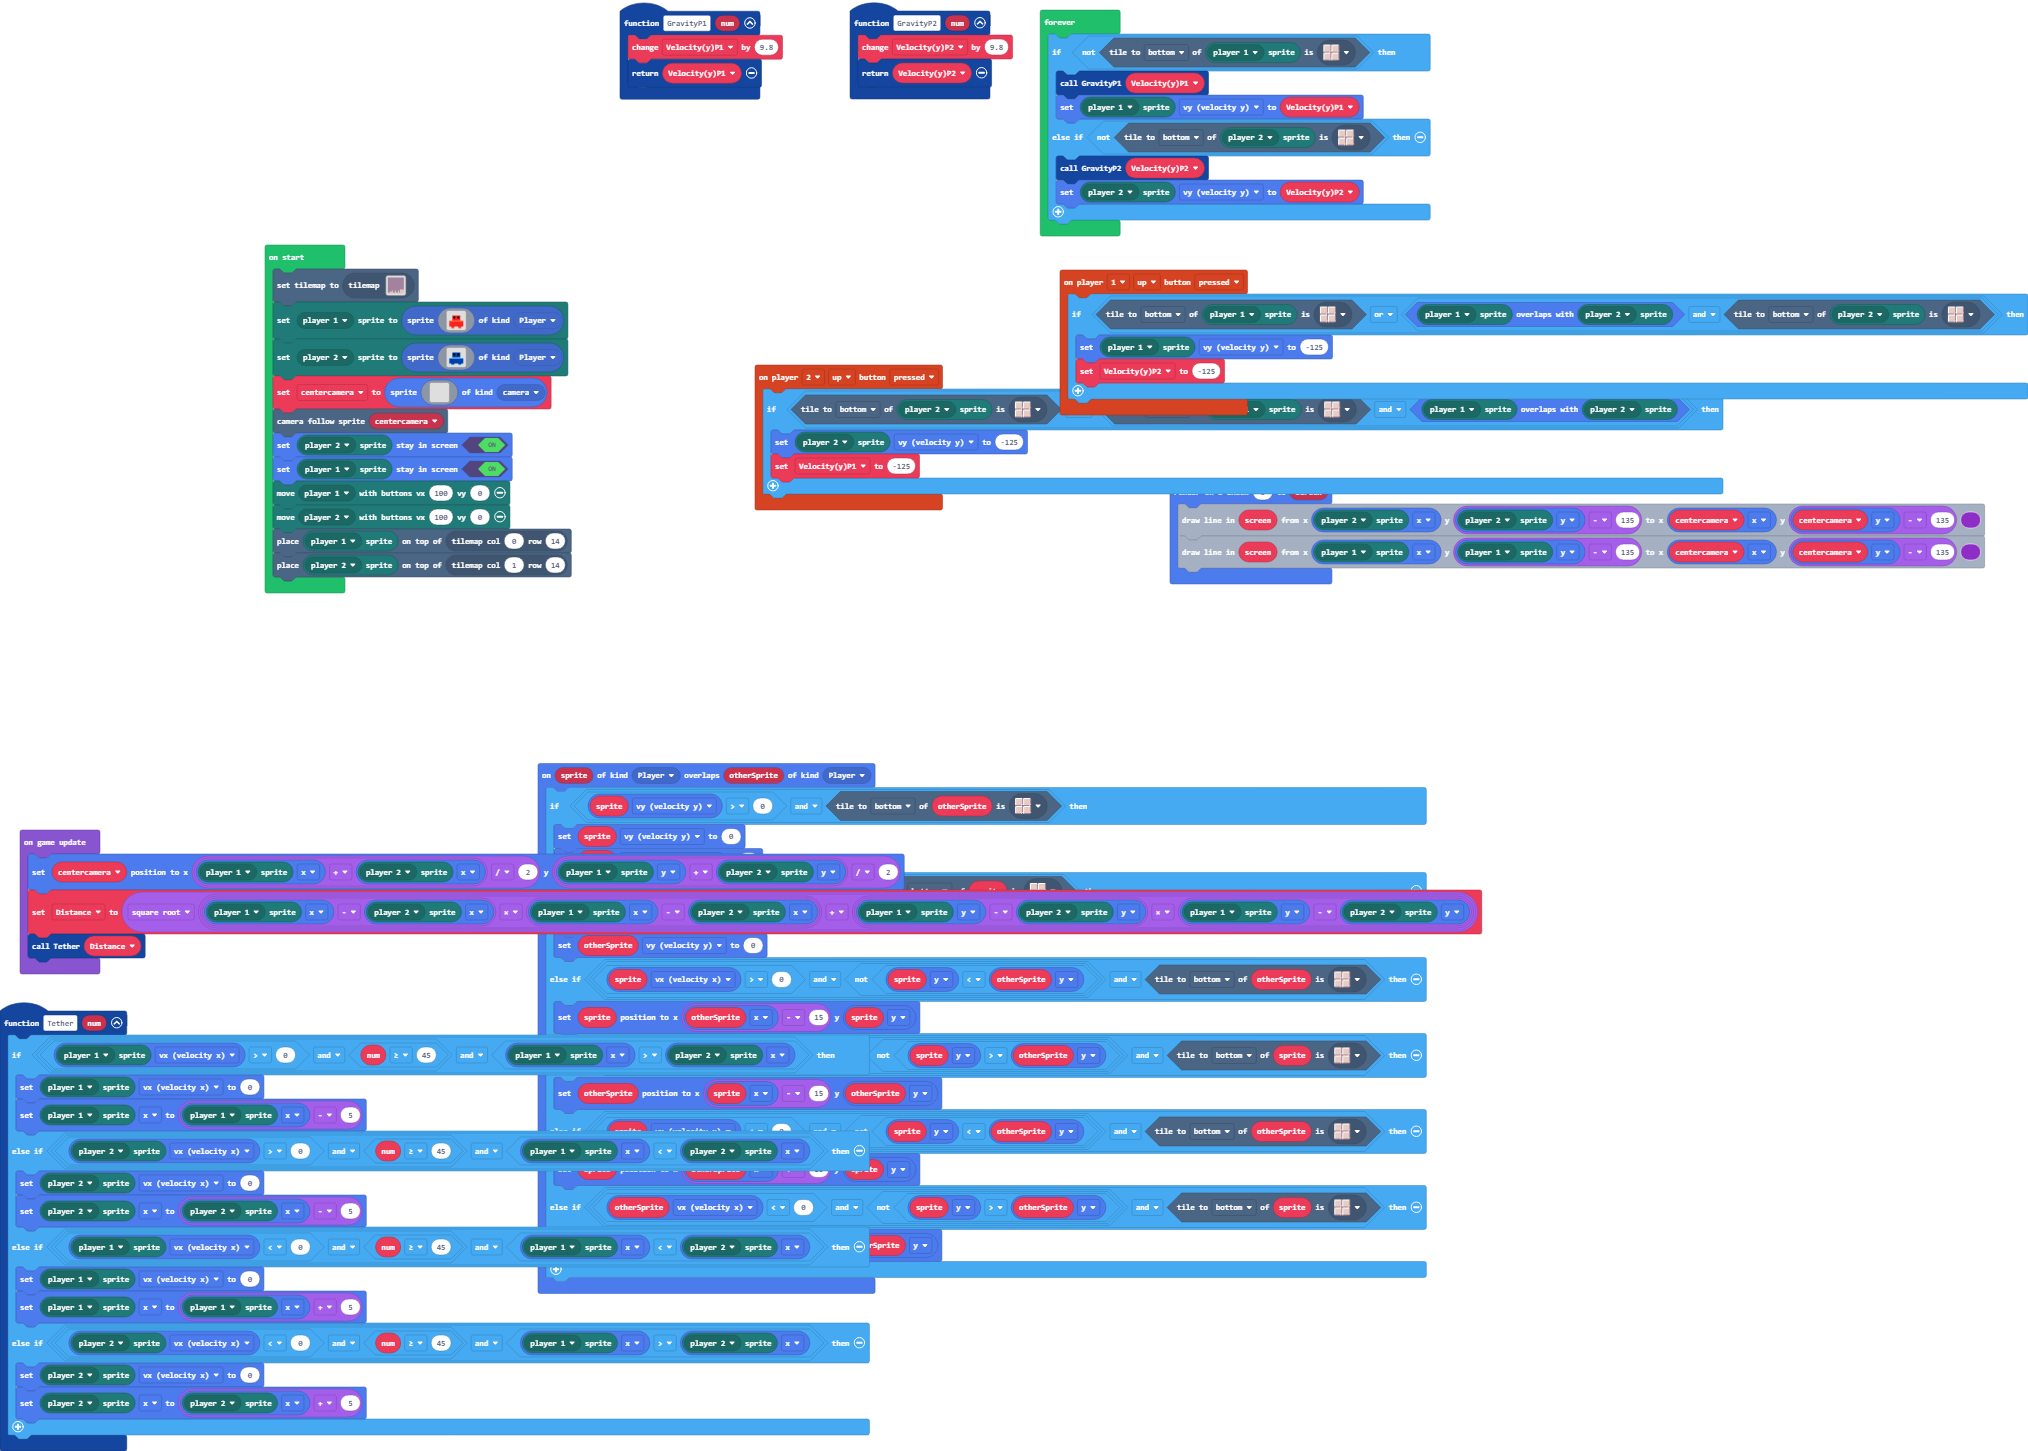
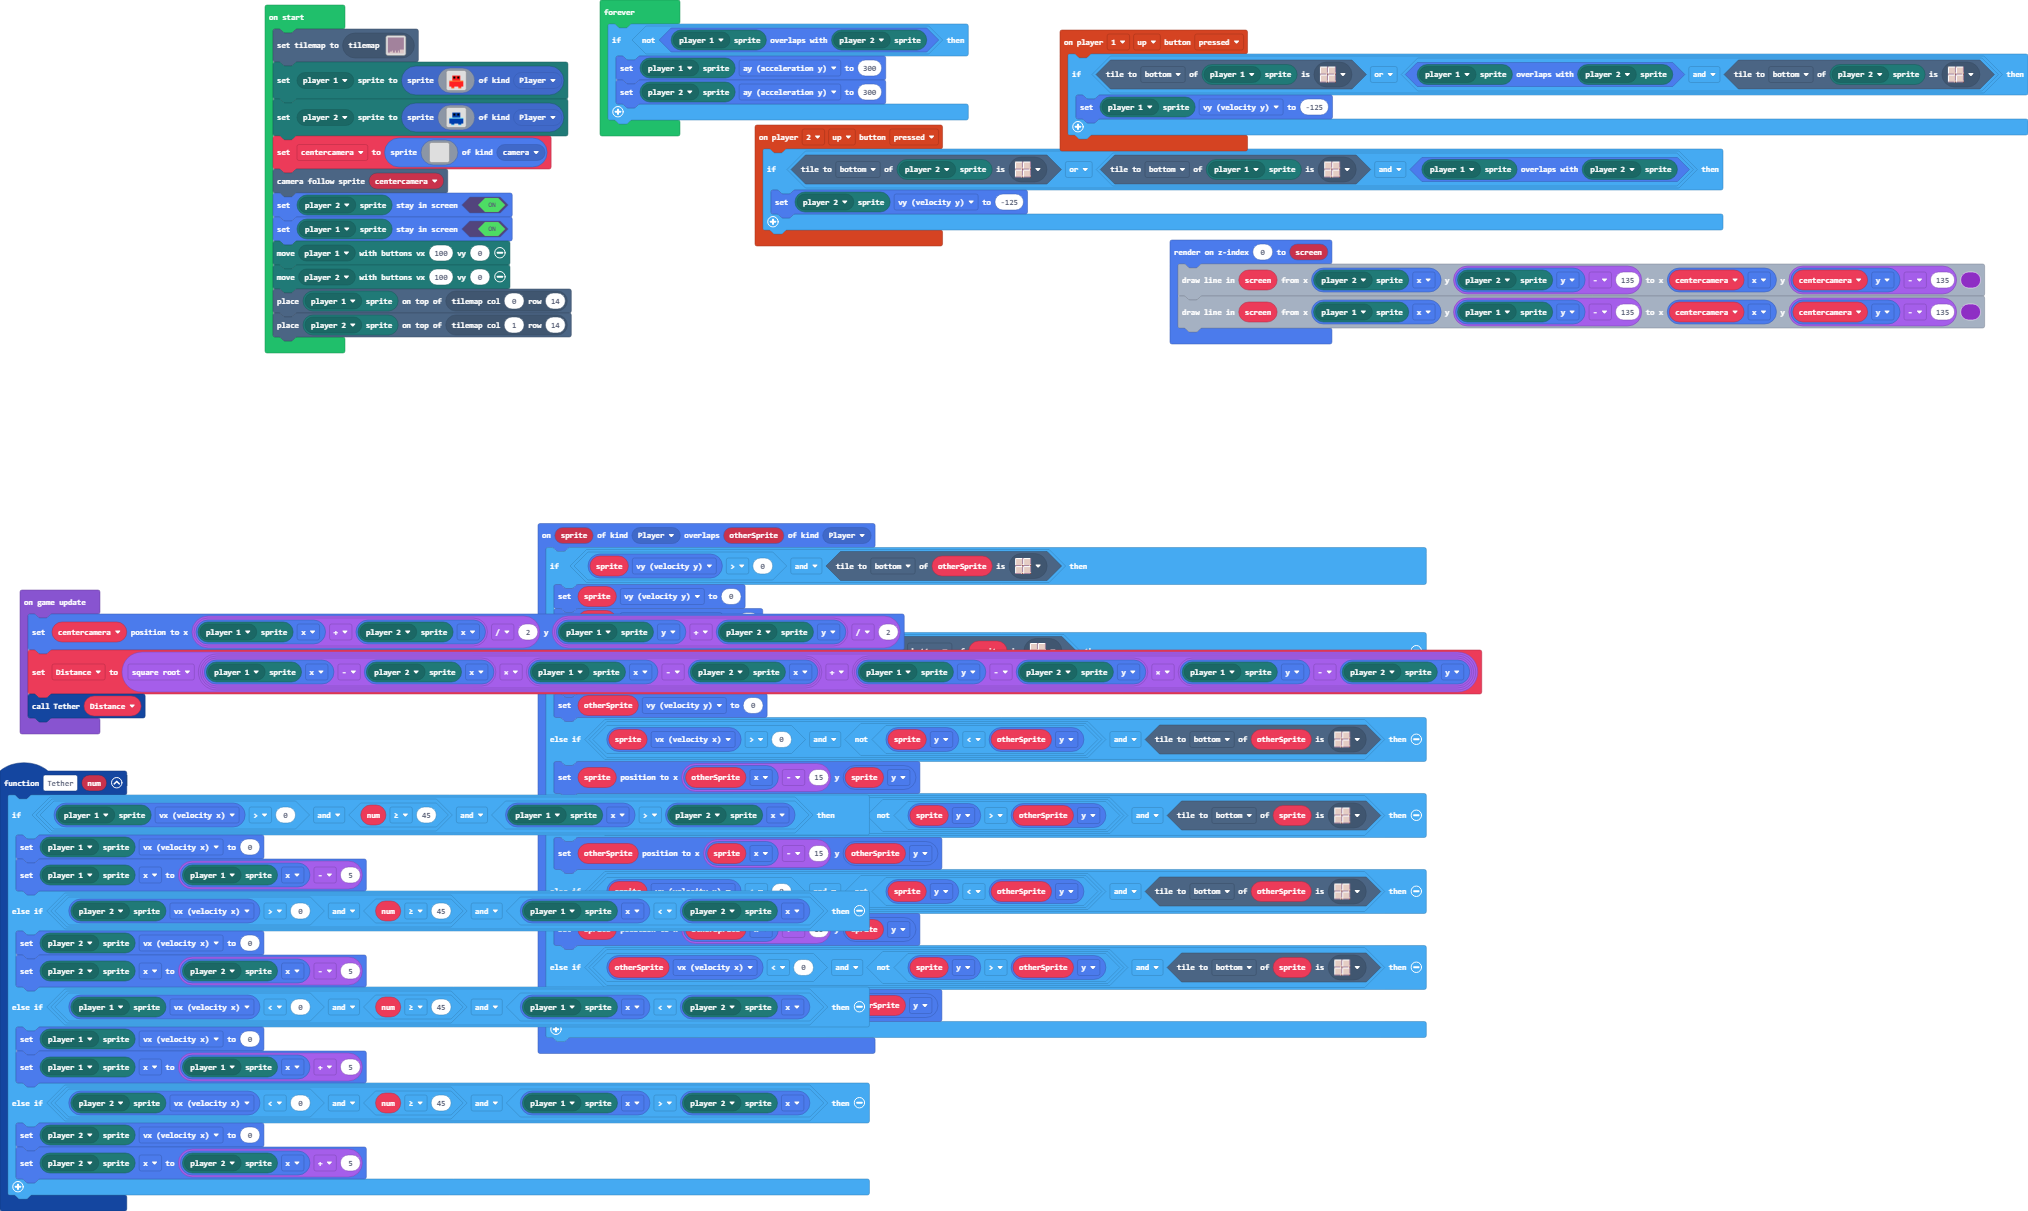
Update main.blocks, main.ts, tilemap.g.jres, tilemap.g.ts

diff --git a/main.ts b/main.ts
@@ -2,14 +2,9 @@ namespace SpriteKind {
     export const camera = SpriteKind.create()
     export const Player2 = SpriteKind.create()
 }
-function GravityP1 (num: number) {
-    VelocityyP1 += 9.8
-    return VelocityyP1
-}
 controller.player1.onButtonEvent(ControllerButton.Up, ControllerButtonEvent.Pressed, function () {
     if (mp.getPlayerSprite(mp.playerSelector(mp.PlayerNumber.One)).tileKindAt(TileDirection.Bottom, sprites.dungeon.floorLight0) || mp.getPlayerSprite(mp.playerSelector(mp.PlayerNumber.One)).overlapsWith(mp.getPlayerSprite(mp.playerSelector(mp.PlayerNumber.Two))) && mp.getPlayerSprite(mp.playerSelector(mp.PlayerNumber.Two)).tileKindAt(TileDirection.Bottom, sprites.dungeon.floorLight0)) {
         mp.getPlayerSprite(mp.playerSelector(mp.PlayerNumber.One)).vy = -125
-        VelocityyP2 = -125
     }
 })
 spriteutils.createRenderable(0, function (screen2) {
@@ -19,7 +14,6 @@ spriteutils.createRenderable(0, function (screen2) {
 controller.player2.onButtonEvent(ControllerButton.Up, ControllerButtonEvent.Pressed, function () {
     if (mp.getPlayerSprite(mp.playerSelector(mp.PlayerNumber.Two)).tileKindAt(TileDirection.Bottom, sprites.dungeon.floorLight0) || mp.getPlayerSprite(mp.playerSelector(mp.PlayerNumber.One)).tileKindAt(TileDirection.Bottom, sprites.dungeon.floorLight0) && mp.getPlayerSprite(mp.playerSelector(mp.PlayerNumber.One)).overlapsWith(mp.getPlayerSprite(mp.playerSelector(mp.PlayerNumber.Two)))) {
         mp.getPlayerSprite(mp.playerSelector(mp.PlayerNumber.Two)).vy = -125
-        VelocityyP1 = -125
     }
 })
 function Tether (num: number) {
@@ -54,13 +48,7 @@ sprites.onOverlap(SpriteKind.Player, SpriteKind.Player, function (sprite, otherS
         otherSprite.setPosition(sprite.x + 15, otherSprite.y)
     }
 })
-function GravityP2 (num: number) {
-    VelocityyP2 += 9.8
-    return VelocityyP2
-}
 let Distance = 0
-let VelocityyP2 = 0
-let VelocityyP1 = 0
 let centercamera: Sprite = null
 tiles.setCurrentTilemap(tilemap`level2`)
 mp.setPlayerSprite(mp.playerSelector(mp.PlayerNumber.One), sprites.create(img`
@@ -130,11 +118,8 @@ game.onUpdate(function () {
     Tether(Distance)
 })
 forever(function () {
-    if (!(mp.getPlayerSprite(mp.playerSelector(mp.PlayerNumber.One)).tileKindAt(TileDirection.Bottom, sprites.dungeon.floorLight0))) {
-        GravityP1(VelocityyP1)
-        mp.getPlayerSprite(mp.playerSelector(mp.PlayerNumber.One)).vy = VelocityyP1
-    } else if (!(mp.getPlayerSprite(mp.playerSelector(mp.PlayerNumber.Two)).tileKindAt(TileDirection.Bottom, sprites.dungeon.floorLight0))) {
-        GravityP2(VelocityyP2)
-        mp.getPlayerSprite(mp.playerSelector(mp.PlayerNumber.Two)).vy = VelocityyP2
+    if (!(mp.getPlayerSprite(mp.playerSelector(mp.PlayerNumber.One)).overlapsWith(mp.getPlayerSprite(mp.playerSelector(mp.PlayerNumber.Two))))) {
+        mp.getPlayerSprite(mp.playerSelector(mp.PlayerNumber.One)).ay = 300
+        mp.getPlayerSprite(mp.playerSelector(mp.PlayerNumber.Two)).ay = 300
     }
 })

diff --git a/tilemap.g.ts b/tilemap.g.ts
@@ -40,9 +40,9 @@ namespace myTiles {
 . . . . . . . . . . . . . . . . 
 . . . . . . . . . . . . . . . . 
 . . . . . . . . . . . . . . . . 
-. . . . . . . . . . . . 2 2 2 2 
-. . . . 2 . . 2 . . 2 . 2 2 2 2 
-. . 2 2 2 . . 2 . . 2 . 2 2 2 2 
+. . . . . . . . . . . . . . . . 
+. . . . . . . . . . . . . . . . 
+. . . . . . . . . . . . . . . . 
 2 2 2 2 2 2 2 2 2 2 2 2 2 2 2 2 
 `, [myTiles.transparency16,sprites.dungeon.floorLight0,sprites.dungeon.floorDark0], TileScale.Sixteen);
         }
